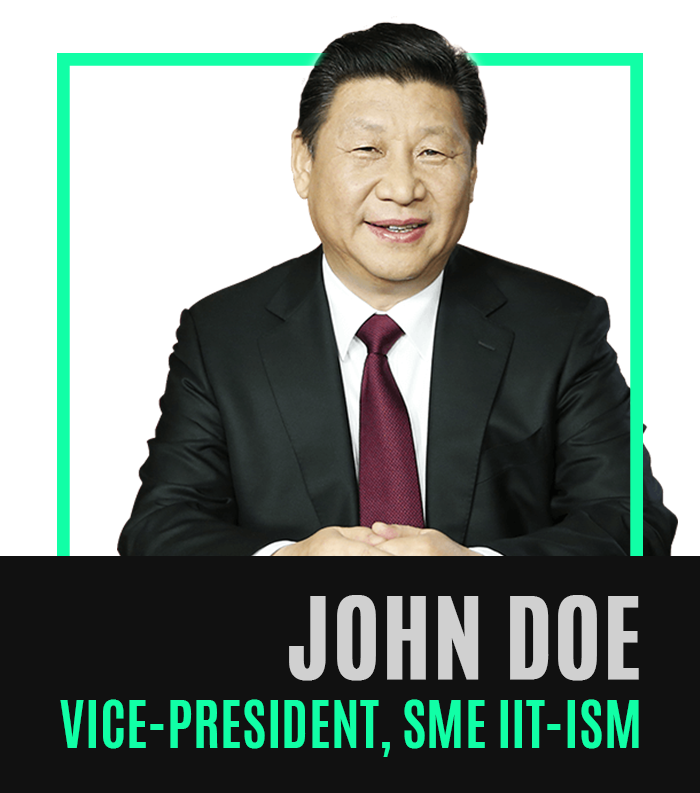
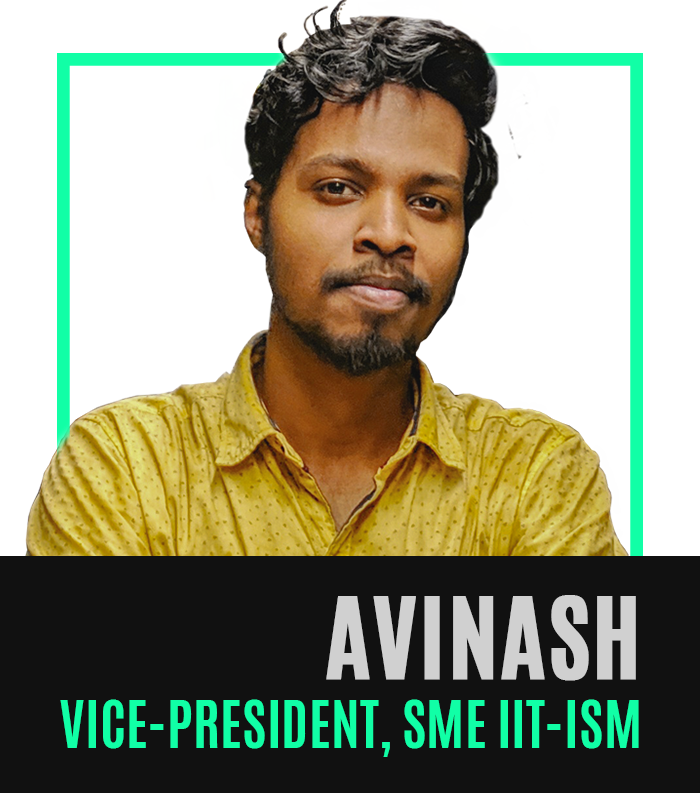
final update

diff --git a/index.html b/index.html
@@ -49,13 +49,13 @@
 			<div class="collapse navbar-collapse order-lg-3 dope-right" id="navbarSupportedContent">
 				<ul class="navbar-nav ml-auto">
 					<li class="nav-item">
-						<a class="nav-link" href="#gallery">GALLERY</a>
-					</li>
-					<li class="nav-item">
 						<a class="nav-link" href="#our-team">OUR TEAM</a>
 					</li>
+					<li class="nav-item">
+						<a class="nav-link" href="#gallery">GALLERY</a>
+					</li>
 					<li class="nav-item dropdown">
-						<a class="nav-link dropdown-toggle" href="#" id="navbarDropdown" role="button" data-toggle="dropdown">REGISTER</a>
+						<a class="nav-link dropdown-toggle" href="register.php" id="navbarDropdown" role="button" data-toggle="dropdown">REGISTER</a>
 						<div class="dropdown-menu">
 							<a class="dropdown-item" href="#!">Participant</a>
 							<a class="dropdown-item" href="#campus_amb">Campus Ambassador</a>
@@ -74,8 +74,8 @@
 		<div class="page-back"></div>
 		<img src="img/my/Group.png" alt="" class="w-100">
 		<div class="main-btn">
-			<a href="#!" class="btn btn-gradient rounded-pill mr-4 border-0">REGISTER</a>
-			<a href="#!" class="btn btn-lighter rounded-pill ml-4 border-0">EXPLORE</a>
+			<a href="register.php" class="btn btn-gradient rounded-pill mr-4 border-0">REGISTER</a>
+			<a href="#events" class="btn btn-lighter rounded-pill ml-4 border-0">EXPLORE</a>
 		</div>
 	</div>
 	
@@ -168,17 +168,29 @@
 					<div class="col-md-12 order-md-5">
 						<div id="topographia" class="collapse" data-parent="#event1_accordion">
 							<h3 class="mt-3"><span class="badge badge-danger">About :</span></h3>
-							<p class="text-lighter">If it can't be expressed in figures, it is not Science, it is an opinion; and one accurate measurement is worth a thousand expert opinions. The event will challenge the students to apply classroom knowledge of surveying in order to solve a real problem. The event will simulate the surveying problems in real conditions.</p>
+							<p class="text-lighter">If it can't be expressed in figures, it is not Science, it is an opinion and one accurate measurement is worth a thousand expert opinions. The event will challenge the students to apply classroom knowledge of surveying in order to solve a real problem. The event will simulate the surveying problems in real conditions.</p>
 							<h3><span class="badge badge-danger">Event Structure :</span></h3>
 							<ul class="text-lighter">
 								<li>
-									<p>The competition will be organized in two phases. Both phases will be organized at IIT(ISM) Dhanbad during KHANAN'17.</p>
+									<p>The event will consist of two rounds all conducted at IIT (ISM) Dhanbad. </p>
 								</li>
 								<li>
-									<p>The first phase will be a written examination from which top 10 teams will be selected for the next round.</p>
+									<p>The first round will consist of an aptitude test aimed to screen a smaller number of teams which will thus make their way to the final round.</p>
 								</li>
 								<li>
-									<p>Top 5 teams will be shortlisted for final face off – “Topographia”.</p>
+									<p>The final round will involve using the given set of instruments to solve the given problem statement(s) using surveying principles.</p>
+								</li>
+							</ul>
+							<h3><span class="badge badge-danger">Rules :</span></h3>
+							<ul class="text-lighter">
+								<li>
+									<p>Every participant/team should register online in the website.</p>
+								</li>
+								<li>
+									<p>Each team can consist a maximum of 3 members.</p>
+								</li>
+								<li>
+									<p>In case of any discrepancy, the decision of judge would be binding.</p>
 								</li>
 							</ul>
 							<div class="border-bottom border-secondary mb-4">
@@ -203,16 +215,28 @@
 							<h3><span class="badge badge-danger">Event Structure :</span></h3>
 							<ul class="text-lighter">
 								<li>
-									<p>The competition will be organized in two phases. The first stage will be online submission while the second will be at ISM Dhanbad during KHANAN'18.</p>
+									<p>The competition will be organized in two phases. The first stage will be online submission while the second will be at IIT(ISM) Dhanbad during KHANAN'19.</p>
 								</li>
 								<li>
-									<p>The PRELIMINARY round will aim to float initial challenge to all the participants. The abstract should be submitted in pdf format which should be mailed to smeismdhanbad@gmail.com before deadline. Papers that have already been accepted in standard national conferences or published in journals shall get a direct entry to the second round. However, Authors must make sure their participation in KHANAN does not lead to violation of Copyright laws of conferences/seminars they have previously attended.</p>
+									<p>The PRELIMINARY round will aim to float initial challenge to all the participants. The abstract should be submitted in pdf format which should be mailed to khanan.sme@gmail.com before deadline. Papers that have already been accepted in standard national conferences or published in journals shall get a direct entry to the second round.</p>
 								</li>
 								<li>
-									<p>Teams will be short listed on the basis of the merit of their submission. Short listed participants will be eligible to appear for Paper Presentation at IIT(ISM) Dhanbad during KHANAN'18.</p>
+									<p>Teams will be short listed on the basis of the merit of their submission. Short listed participants will be eligible to appear for Paper Presentation at IIT(ISM) Dhanbad during KHANAN'19.</p>
 								</li>
 								<li>
 									<p>Second Round will be a presentation cum debate cum questionnaire round whereby the participants will have to present their work done on the topic before other teams and judges.</p>
+								</li>
+							</ul>
+							<h3><span class="badge badge-danger">Rules :</span></h3>
+							<ul class="text-lighter">
+								<li>
+									<p>The abstract should be submitted before the deadline.</p>
+								</li>
+								<li>
+									<p>Each team can consist a maximum of 4 members.</p>
+								</li>
+								<li>
+									<p>Authors must make sure their participation in KHANAN’19 does not lead to violation of Copyright laws of conferences/seminars they have previously attended.</p>
 								</li>
 							</ul>
 							<p class="text-center pt-3"><a href="#!" class="btn btn-outline-light btn-lg my-shadow">CLick Here To View Topics <i class="fa fa-external-link ml-2"></i></a></p>
@@ -233,10 +257,24 @@
 					<!-- robotica content -->
 					<div class="col-md-12 order-md-7">
 						<div id="robotica" class="collapse" data-parent="#event1_accordion">
-							<h3 class="mt-3"><span class="badge badge-danger">Round 1 :</span></h3>
-							<p class="text-lighter">The objective is that the robot should follow a track marked with a line with lots of hurdles. The whole robot must start behind the starting mark and is considered to have crossed the finishing line; whole robot must cross the finish line. Design a robot, it may be wired or wireless within the specified dimensions that can operate manually or autonomous and can travel through all turns of the track. Robots will be shortlisted according to their time of completion.</p>
-							<h3><span class="badge badge-danger">Round 2 :</span></h3>
-							<p class="text-lighter">In this round, the robot should load the coal or sand from specific point (that will be released at the time of competition) and dump it in dumping box within specified time range (will also release at the competition).</p>
+							<h3 class="mt-3"><span class="badge badge-danger">About :</span></h3>
+							<p class="text-lighter">Ever thought about how much efforts goes into designing and programming a robot. Robotica gives you the chance to have an experience of how a robot works and try out your skills at designing various types of robot.</p>
+							<h3><span class="badge badge-danger">Event Structure :</span></h3>
+							<div class="mt-3 pl-3">
+								<h5 class="text-white"><u>Round 1 :</u></h5>
+								<p class="text-lighter">The objective is that the robot should follow a track marked with a line with lots of hurdles. The whole robot must start behind the starting mark and is considered to have crossed the finishing line; whole robot must cross the finish line. Design a robot, it may be wired or wireless within the specified dimensions that can operate manually or autonomous and can travel through all turns of the track. Robots will be shortlisted according to their time of completion.</p>
+								<h5 class="text-white"><u>Round 2 :</u></h5>
+								<p class="text-lighter">The objective is that the robot should follow a track marked with a line with lots of hurdles. The whole robot must start behind the starting mark and is considered to have crossed the finishing line; whole robot must cross the finish line. Design a robot, it may be wired or wireless within the specified dimensions that can operate manually or autonomous and can travel through all turns of the track. Robots will be shortlisted according to their time of completion.</p>
+							</div>
+							<h3><span class="badge badge-danger">Rules :</span></h3>
+							<ul class="text-lighter">
+								<li>
+									<p>The dimensions of the robot should be the same as provided.</p>
+								</li>
+								<li>
+									<p>Each team should consider a maximum of 4 participants.</p>
+								</li>
+							</ul>
 							<p class="text-center pt-3"><a href="#!" class="btn btn-outline-light btn-lg my-shadow">Full Event Details <i class="fa fa-external-link ml-2"></i></a></p>
 							<div class="border-bottom border-secondary mb-4">
 								<p class="m-0 text-right"><span class="badge badge-secondary px-2 py-1 rounded-0">Robotica</span></p>
@@ -249,10 +287,10 @@
 						<div class="box" data-toggle="collapse" data-target="#minnovare">
 							<div class="box-img" style="background-image: url('img/my/innovare.jpg');"></div>
 							<p>CASE STUDY</p>
-							<h4>MINNOVARE</h4>
+							<h4>NIRVANA</h4>
 						</div>
 					</div>
-					<!-- innovare content -->
+					<!-- minnovare content -->
 					<div class="col-md-12 order-md-8">
 						<div id="minnovare" class="collapse" data-parent="#event1_accordion">
 							<h3 class="mt-3"><span class="badge badge-danger">About :</span></h3>
@@ -260,7 +298,7 @@
 							<h3><span class="badge badge-danger">Event Structure :</span></h3>
 							<ul class="text-lighter">
 								<li>
-									<p>For the selection round each team has to prepare an abstract of the solution based on the problem statement.</p>
+									<p>For the selection round each team has to prepare an abstract of the solution based on the given problem statement.</p>
 								</li>
 								<li>
 									<p>Teams selected for the second round should come to ISM Dhanbad for the case study face off – “Innovare”.</p>
@@ -268,8 +306,14 @@
 								<li>
 									<p>Each team will be given a slot of 15 minutes to present which shall include 2 minutes of questionnaire.</p>
 								</li>
+							</ul>
+							<h3><span class="badge badge-danger">Rules :</span></h3>
+							<ul class="text-lighter">
 								<li>
-									<p>Only Top three teams will get certificate of merit and cash prizes. However other teams would get a certificate of participation.</p>
+									<p>The abstract should be submitted before the deadline.</p>
+								</li>
+								<li>
+									<p>Each team can consist a maximum of 4 members.</p>
 								</li>
 							</ul>
 							<p class="text-center pt-3"><a href="#!" class="btn btn-outline-light btn-lg my-shadow">Click Here To Download Problem Statement <i class="fa fa-external-link ml-2"></i></a></p>
@@ -296,17 +340,27 @@
 					<div class="col-md-12 order-md-5">
 						<div id="quizzine" class="collapse" data-parent="#event2_accordion">
 							<h3><span class="badge badge-danger">About :</span></h3>
-							<p class="text-lighter">For any Mining Engineer, it is very important to get an insight into real life problems before entering the field. The event aims to provide exposure to real life mining problems and extract some "out of the box" ideas from aspiring students.</p>
+							<p class="text-lighter">For any Mining Engineer, the knowledge of every small detail is necessary for proper execution of any procedure. The Mining quiz gives an oppurtunity to test your knowledge about Mining Engineering.<br>For an aware mind, the general quiz is a golden opportunity to have an insight of its surrounding and exposure to various world issues.</p>
 							<h3><span class="badge badge-danger">Event Structure :</span></h3>
 							<ul class="text-lighter">
 								<li>
-									<p>The competition will be organized in two phases. Both phases will be organized at IIT(ISM) Dhanbad during KHANAN'17.</p>
+									<p>The competition will be organized in two phases. Both phases will be organized at IIT(ISM) Dhanbad during KHANAN'19.</p>
 								</li>
 								<li>
 									<p>The first phase will be a written examination from which top 10 teams will be selected for the next round.</p>
 								</li>
 								<li>
-									<p>Top 5 teams will be shortlisted for final face off – “Quizzine”.</p>
+									<p>The second phase will have the top 10 teams competing against each other in the buzzer round.
+</p>
+								</li>
+							</ul>
+							<h3><span class="badge badge-danger">Rules :</span></h3>
+							<ul class="text-lighter">
+								<li>
+									<p>Each team will consists of a maximum of 3 participants.</p>
+								</li>
+								<li>
+									<p>Individuals must register online to participate.</p>
 								</li>
 							</ul>
 							<div class="border-bottom border-secondary">
@@ -330,13 +384,22 @@
 							<h3><span class="badge badge-danger">Event Structure :</span></h3>
 							<ul class="text-lighter">
 								<li>
-									<p>The competition will be organized in two phases both at ISM Dhanbad during KHANAN'18.</p>
+									<p>The competition will be organized in two phases both at IIT(ISM) Dhanbad during KHANAN'19.</p>
 								</li>
 								<li>
 									<p>The first round will have a written examination from which few teams will be selected for the second round.</p>
 								</li>
 								<li>
 									<p>In the second round a problem statement will be given, the solution to which has to be designed in a specified period of time.</p>
+								</li>
+							</ul>
+							<h3><span class="badge badge-danger">Rules :</span></h3>
+							<ul class="text-lighter">
+								<li>
+									<p>Each team can consist of maximum 3 members.</p>
+								</li>
+								<li>
+									<p>In case of any discrepancy, the decision of the judge would be binding.</p>
 								</li>
 							</ul>
 							<div class="border-bottom border-secondary">
@@ -348,8 +411,8 @@
 					<div class="col-md-3 order-md-3">
 						<div class="box" data-toggle="collapse" data-target="#nirvana">
 							<div class="box-img" style="background-image: url('img/my/nirvana.jpg');"></div>
-							<p>POSTER PRESENTATION</p>
-							<h4>NIRVANA</h4>
+							<p>MINING INNOVATION CHALLENGE</p>
+							<h4>MINNOVARE</h4>
 						</div>
 					</div>
 					<!-- nirvana content -->
@@ -360,19 +423,22 @@
 							<h3><span class="badge badge-danger">Event Structure :</span></h3>
 							<ul class="text-lighter">
 								<li>
-									<p>For the election in preliminary round, an abstract should be submitted in pdf format which should be mailed to smeismdhanbad@gmail.com before deadline.</p>
+									<p>Participants should choose a burning problem statement related to real life and should provide an innovative solution. The abstract should be mailed to khanan.sme@gmail.com. </p>
 								</li>
 								<li>
-									<p>Shortlisted abstracts would get a chance to present in IIT(ISM).</p>
+									<p>Sort listed teams on the basis of submitted abstracts would reach the second round.</p>
 								</li>
 								<li>
-									<p>Posters that have already been accepted in standard national conferences or published in journals shall get a direct entry to the second round. However, participants must make sure their participation in KHANAN does not lead to violation of Copyright laws of conferences/seminars they have previously attended.</p>
+									<p>In round 2, the sort listed teams would have to present their ideas which would be conducted at IIT ISM Dhanbad.</p>
+								</li>
+							</ul>
+							<h3><span class="badge badge-danger">Rules :</span></h3>
+							<ul class="text-lighter">
+								<li>
+									<p>The abstract should be submitted before the deadline.</p>
 								</li>
 								<li>
-									<p>Each team will be given a time limit of 10 minutes to present which will include 2 minutes of questionnaire.</p>
-								</li>
-								<li>
-									<p>Only Top three teams will get certificate of merit. However other teams would get a certificate of participation.</p>
+									<p>Each team can consist a maximum of 4 members.</p>
 								</li>
 							</ul>
 							<div class="border-bottom border-secondary">
@@ -435,6 +501,15 @@
 									<p>The top three students will get a certificate of merit; however each of the participants will receive the certificate of participation.</p>
 								</li>
 							</ul>
+							<h3><span class="badge badge-danger">Rules :</span></h3>
+							<ul class="text-lighter">
+								<li>
+									<p>Individual entries are only allowed in this event.</p>
+								</li>
+								<li>
+									<p>In case of any discrepancy, the decision of panel would be binding.</p>
+								</li>
+							</ul>
 							<div class="border-bottom border-secondary">
 								<p class="m-0 text-right"><span class="badge badge-secondary px-2 py-1 rounded-0">Placement Fever</span></p>
 							</div>
@@ -466,6 +541,18 @@
 								</li>
 								<li>
 									<p>Only Top three teams will get certificate of merit and cash prizes. However other teams would get a certificate of participation.</p>
+								</li>
+							</ul>
+							<h3><span class="badge badge-danger">Rules :</span></h3>
+							<ul class="text-lighter">
+								<li>
+									<p>The Participants should register online.</p>
+								</li>
+								<li>
+									<p>Every team should fill the google form provide before the event.</p>
+								</li>
+								<li>
+									<p>Each team can consist a maximum of 4 members.</p>
 								</li>
 							</ul>
 							<div class="border-bottom border-secondary">
@@ -529,7 +616,7 @@
 				</div>
 				<div class="col-md-6">
 					<h2 class="text-white pt-3" style="flex: 1; font-family: oswald, sans-serif; font-size: 34px; letter-spacing: 5px;"><span class="heading">CAMPUS AMBASSADOR</span></h2>
-					<p class="text-lighter mt-5">Looking for a chance to lead your college? Register for campus ambassador now and get a chance to be an extended part of organizing team of KHANAN'19. Here we offer you a chance to represent your college and get acknowledged for this enthusiastic work. All you have to do is lead the contigent from your college and make sure everyone there gets to know about it. Bear the responsibility and get ready for a thrilling experience.</p>
+					<p class="text-lighter mt-5">Looking for a chance to lead your college? Register for campus ambassador now and get a chance to be an extended part of organizing team of KHANAN'19. Here we offer you a chance to represent your college and get acknowledged for this enthusiastic work. All you have to do is lead the contingent from your college and make sure everyone there gets to know about it. Bear the responsibility and get ready for a thrilling experience.</p>
 					<div id="ca-btn">
 						<a href="https://forms.gle/KybZPhEaS57WRDbk9" class="btn btn-lg btn-gradient my-shadow rounded-pill px-4 mt-4">APPLY NOW</a>
 					</div>
@@ -546,16 +633,16 @@
 			<!-- current sponsors -->
 			<div class="row pt-3 pb-4">
 				<div class="col-md-3">
+					<img src="img/my/sponsors/vedanta.png" alt="" class="w-100">
+				</div>
+				<div class="col-md-3">
 					<img src="img/my/sponsors/mcl_new.png" alt="" class="w-100">
 				</div>
-				<div class="col-md-3 offset-md-1">
+				<div class="col-md-3">
 					<img src="img/my/sponsors/weblibox.png" alt="" class="w-100">
 				</div>
-				<div class="col-md-3 offset-md-1">
+				<div class="col-md-3">
 					<img src="img/my/sponsors/db.png" alt="" class="w-100">
-				</div>
-				<div class="col-md-3 d-none">
-					<img src="https://img.freepik.com/free-vector/elegant-gold-glitter-background_1048-9420.jpg?size=338&ext=jpg" alt="" class="w-100">
 				</div>
 			</div>
 			
@@ -607,32 +694,32 @@
 					<div class="col-md-2 col-sm-6 col-6 offset-md-1">
 						<div class="gradient mb-4">
 							<div class="gradient-box" style="background-image: linear-gradient(to right, #92fe9d 0%, #00c9ff 100%);"></div>
-							<img src="img/my/team/t1.png" alt="" class="w-100">
+							<img src="img/my/team/t2.png" alt="" class="w-100">
 						</div>
 					</div>
 					<div class="col-md-2 col-sm-6 col-6 offset-md-1">
 						<div class="gradient mb-4">
 							<div class="gradient-box" style="background-image: linear-gradient(to top, #f43b47 0%, #453a94 100%);"></div>
-							<img src="img/my/team/t1.png" alt="" class="w-100">
+							<img src="img/my/team/t3.png" alt="" class="w-100">
 						</div>
 					</div>
 					<!-- after3 -->
 					<div class="col-md-2 col-sm-6 col-6 offset-md-2 mt-my">
 						<div class="gradient mb-4">
 							<div class="gradient-box" style="background-image: linear-gradient(15deg, #13547a 0%, #80d0c7 100%);"></div>
-							<img src="img/my/team/t1.png" alt="" class="w-100">
+							<img src="img/my/team/t4.png" alt="" class="w-100">
 						</div>
 					</div>
 					<div class="col-md-2 col-sm-6 col-6 offset-md-1 mt-my">
 						<div class="gradient mb-4">
 							<div class="gradient-box" style="background-image: linear-gradient(120deg, #f6d365 0%, #fda085 100%);"></div>
-							<img src="img/my/team/t1.png" alt="" class="w-100">
+							<img src="img/my/team/t5.png" alt="" class="w-100">
 						</div>
 					</div>
 					<div class="col-md-2 col-sm-6 col-6 offset-md-1 mt-my">
 						<div class="gradient mb-4">
 							<div class="gradient-box" style="background-image: linear-gradient(to right, #eea2a2 0%, #bbc1bf 19%, #57c6e1 42%, #b49fda 79%, #7ac5d8 100%);"></div>
-							<img src="img/my/team/t1.png" alt="" class="w-100">
+							<img src="img/my/team/t6.png" alt="" class="w-100">
 						</div>
 					</div>
 				</div>

diff --git a/css/style.css b/css/style.css
@@ -332,9 +332,16 @@ span.heading{
 	position: relative;
 	z-index: 3;
 }
+#our-team .gradient img{
+	filter: grayscale(1);
+}
 #our-team .gradient:hover .gradient-box{
 	transform: scaleY(1);
 	transition: 0.4s;
+}
+#our-team .gradient:hover img{
+	filter: grayscale(0);
+	transition: 0.3s;
 }
 
 @media (max-width: 1199.98px){
